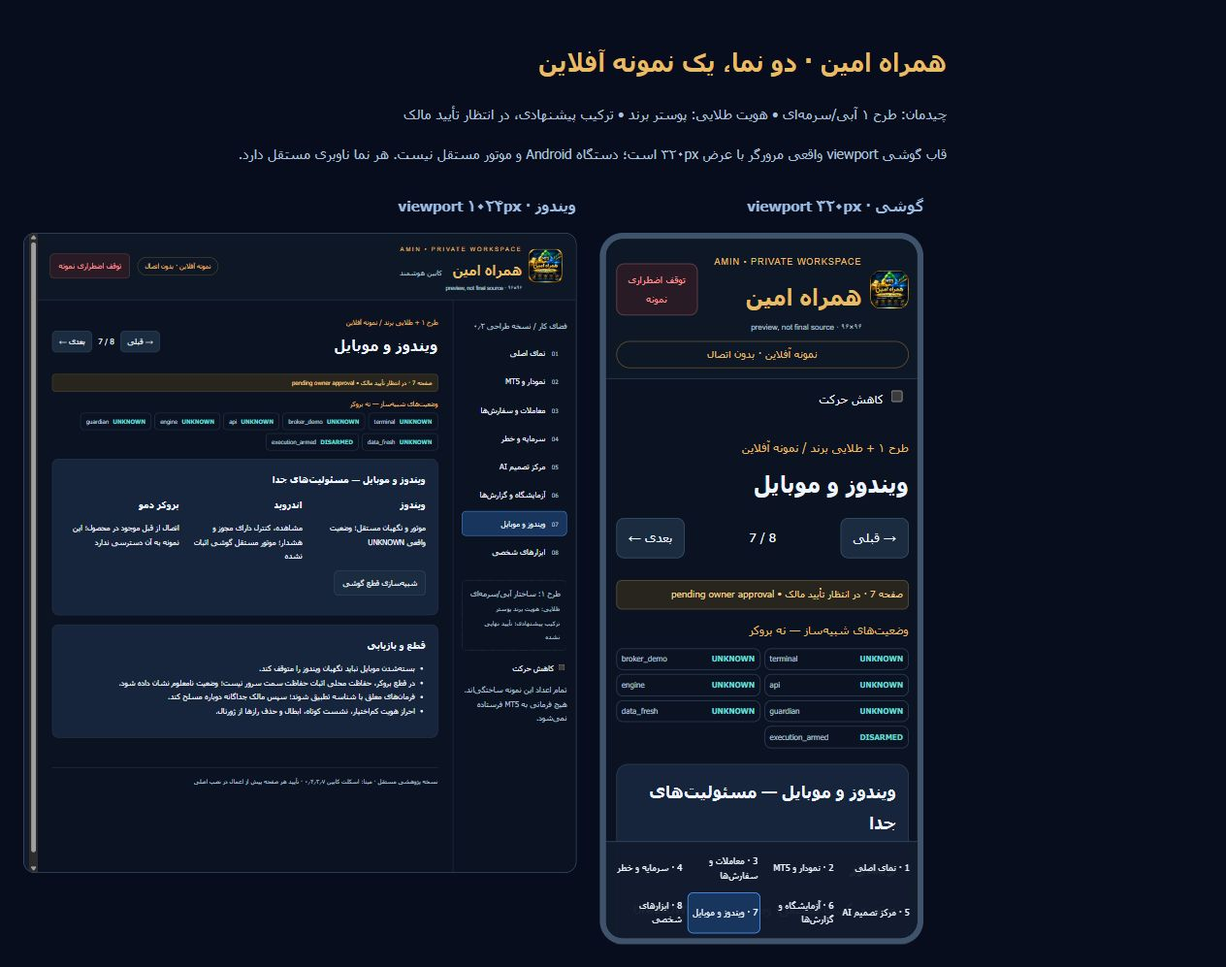
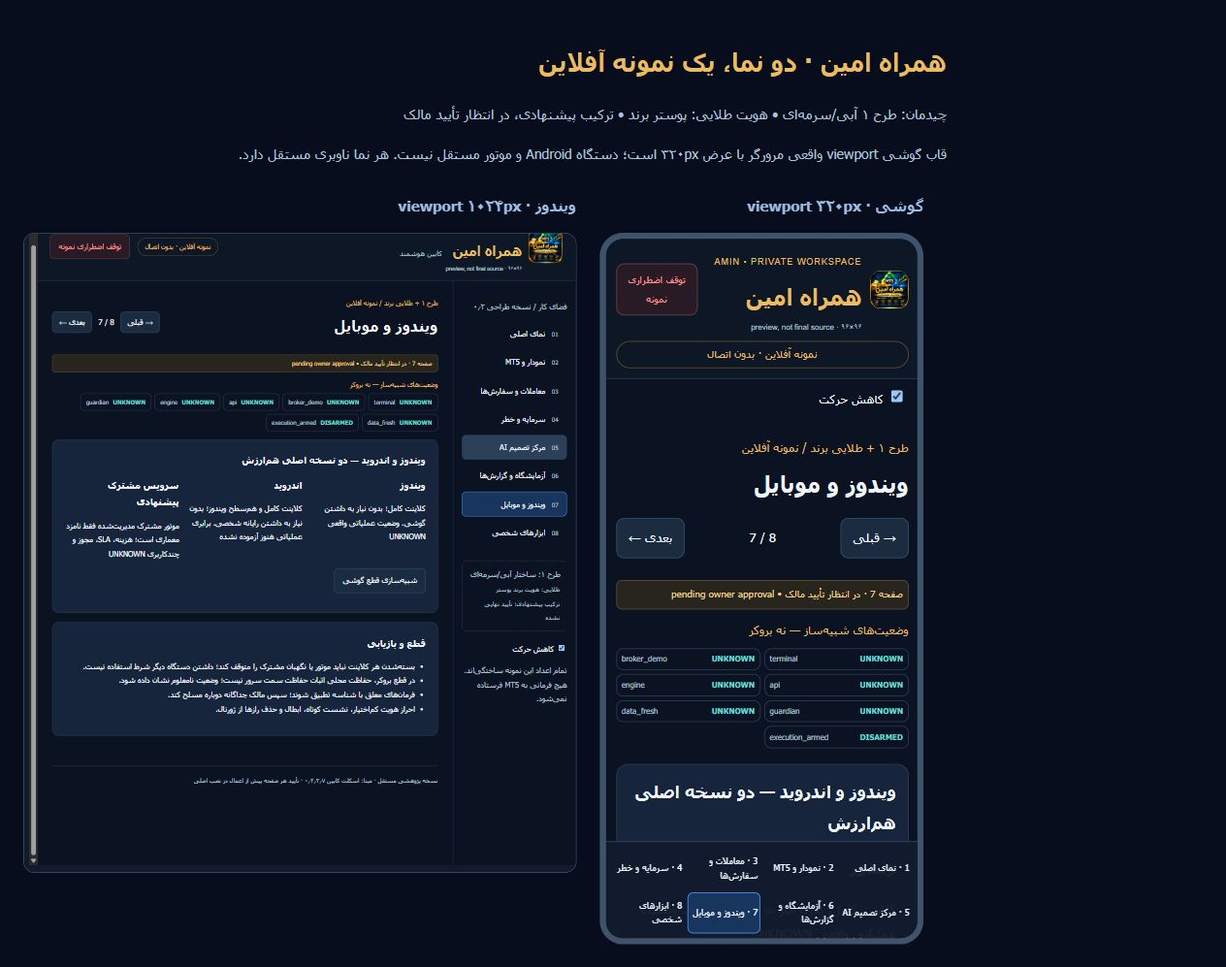
Define equal full Windows and Android clients; correct offline cabin contract

diff --git a/research/amin-cabin-v2-visual-revision/app.js b/research/amin-cabin-v2-visual-revision/app.js
@@ -10,7 +10,7 @@ function content(i){
  if(i===3)return card('نگهبان مستقل ریسک','<div class="warn">تعارض باز: هدف مالک ۳٪ در برابر پیشفرض release برابر ۶٪. هیچ تنظیم واقعی تغییر نکرده است.</div><p>سقف زیانِ مصوب، هویت حساب، هزینه و داده تازه باید پیش از بررسی فرمان معلوم باشند. UNKNOWN به معنی رد است.</p><button data-go="5">آزمون سناریوهای خطا</button>')+card('حسابگر آموزشی هزینه — اعداد فرضی','<p>حرکت فرضی ۱۰ دلار، قرارداد فرضی ۱۰۰ اونس، spread فرضی ۰٫۳۰ دلار و کمیسیون فرضی رفتوبرگشت ۸ دلار/lot؛ سوآپ و لغزش منظور نشدهاند. اینها نرخ بروکر نیستند.</p><div class="row"><label>حجم <select id="lots"><option value="1">۱ lot</option><option value="0.01">۰٫۰۱ lot</option></select></label><button id="calculate">محاسبه نمونه</button></div><div id="pnl"></div><p class="muted">سود تحققیافته نمونه همواره صفر است؛ هیچ fill یا معاملهای وجود ندارد.</p>');
  if(i===4)return `<div class="two">${card('مرکز تصمیم','<p class="big-note">NO TRADE</p><p>BUY / SELL تنها نام خروجی احتمالی طراحیاند. مدل آموختهشده معتبر به این نمونه وصل نیست.</p><table><tr><td>نوع منطق</td><td>قواعد ثابتِ محافظ نمونه</td></tr><tr><td>شناسه / هش مدل</td><td>UNKNOWN</td></tr><tr><td>عدم قطعیت</td><td>اندازهگیری نشده</td></tr><tr><td>احتمال برد</td><td>گزارش نشده</td></tr></table>')}${card('چرایی توقف','<p>داده تازه، هزینه نهایی، مجوز اجرایی و مدل معتبر لازم است. confidence بدون کالیبراسیون احتمال سود نیست.</p><p>آزمایشهای پژوهشی قبلی شاهد سودآوری نبودند؛ تقسیم مجدد داده دیدهشده آزمون مستقل تازه نیست.</p><button data-go="5">دیدن آزمایشگاه</button>')}</div>`+card('هشدارها','<ul><li>سطح بحرانی: حفاظت تأیید نشده.</li><li>هزینه نماد: UNKNOWN تا پاسخ قابل اعمال بروکر.</li><li>استراتژی و ۱۲ اندیکاتور: هویت نهایی هنوز حل نشده.</li></ul>');
  if(i===5)return card('آزمایشگاه حالتها — فقط حافظه این صفحه','<p>هر سناریو وضعیت ساختگی را تغییر میدهد. در همه حالتها تعداد سفارش ارسالی صفر است.</p><div class="row"><button data-event="disconnect">قطع ارتباط</button><button data-event="stale">داده کهنه</button><button data-event="unknown">حساب نامعلوم</button><button data-event="reconnect">بازگشت اتصال</button><button data-event="reconcile">تطبیق نمونه</button><button id="reset">بازنشانی نمونه</button></div><pre id="gate" class="code"></pre>')+card('شواهد و حدود آزمون','<p>آزمونهای واحد مستقل با Node و بدون نصب وابستگی اجرا میشوند. PASS آزمون mock، اثبات سلامت موتور نصبشده نیست.</p><p class="code">node --test tests/model.test.cjs</p><p>بازگشت اتصال → تطبیق → تأیید دوباره؛ هیچ صف فرمانی خودکار بازپخش نمیشود.</p>');
- if(i===6)return card('ویندوز و موبایل — مسئولیتهای جدا','<div class="grid"><div><h3>ویندوز</h3><p>موتور و نگهبان مستقل؛ وضعیت واقعی UNKNOWN</p></div><div><h3>اندروید</h3><p>مشاهده، کنترل دارای مجوز و هشدار؛ موتور مستقل گوشی اثبات نشده</p></div><div><h3>بروکر دمو</h3><p>اتصال از قبل موجود در محصول؛ این نمونه به آن دسترسی ندارد</p></div></div><button id="mobile">شبیهسازی قطع گوشی</button><p id="mobileState"></p>')+card('قطع و بازیابی','<ul><li>بستهشدن موبایل نباید نگهبان ویندوز را متوقف کند.</li><li>در قطع بروکر، حفاظت محلی اثبات حفاظت سمت سرور نیست؛ وضعیت نامعلوم نشان داده شود.</li><li>فرمانهای معلق با شناسه تطبیق شوند؛ سپس مالک جداگانه دوباره مسلح کند.</li><li>احراز هویت کماختیار، نشست کوتاه، ابطال و حذف رازها از ژورنال.</li></ul>');
+ if(i===6)return card('ویندوز و اندروید — دو نسخه اصلی همارزش','<div class="grid"><div><h3>ویندوز</h3><p>کلاینت کامل؛ بدون نیاز به داشتن گوشی. وضعیت عملیاتی واقعی UNKNOWN</p></div><div><h3>اندروید</h3><p>کلاینت کامل و همسطح ویندوز؛ بدون نیاز به داشتن رایانه شخصی. برابری عملیاتی هنوز آزموده نشده</p></div><div><h3>سرویس مشترک پیشنهادی</h3><p>موتور مشترک مدیریتشده فقط نامزد معماری است؛ هزینه، SLA، مجوز و چندکاربری UNKNOWN</p></div></div><button id="mobile">شبیهسازی قطع گوشی</button><p id="mobileState"></p>')+card('قطع و بازیابی','<ul><li>بستهشدن هر کلاینت نباید موتور یا نگهبان مشترک را متوقف کند؛ داشتن دستگاه دیگر شرط استفاده نیست.</li><li>در قطع بروکر، حفاظت محلی اثبات حفاظت سمت سرور نیست؛ وضعیت نامعلوم نشان داده شود.</li><li>فرمانهای معلق با شناسه تطبیق شوند؛ سپس مالک جداگانه دوباره مسلح کند.</li><li>احراز هویت کماختیار، نشست کوتاه، ابطال و حذف رازها از ژورنال.</li></ul>');
  return card('ابزارهای شخصی · اولویت بعدی','<div class="grid"><div><h3>برنامههای من</h3><p>بعداً: اجرای مستقیم اپ همان دستگاه و حفظ صفحه بازگشت</p><button disabled>+ افزودن — بعداً</button></div><div><h3>شخصیتها</h3><p>بعداً: موارد خصوصی و چند لینک؛ انتشار فقط موردی توسط مالک</p><button disabled>+ افزودن — بعداً</button></div><div><h3>ملودی امین</h3><p>چهار عنوان انتخاب شده؛ فایل و مجوز نسخه واقعی هنوز تأیید نشده</p><button disabled>پخش — فایل مجاز موجود نیست</button></div></div>')+card('تقویم، لوگو و حریم خصوصی','<p>تقویم اقتصادی زنده در این نمونه وجود ندارد. لوگوی مصوب گزینه۴ بازسازی نشده است. تصویر کوچک مصوب مالک فقط برای پیشنمایش در بسته است؛ فایل نهایی لوگو، موسیقی و داده حساب موجود نیست.</p><p>این ماژولها store و اختیار مستقل از فرمان معاملاتی دارند. + افزودن در طراحی نهایی بدون سقف دلخواه باقی میماند؛ ظرفیت واقعی دستگاه محدودیت است.</p>');
 }
 function notify(t){$('announcement').textContent=t;}
@@ -27,7 +27,7 @@ function render(action){
  document.querySelectorAll('[data-event]').forEach(b=>b.onclick=()=>{state=Cabin.transition(state,b.dataset.event);render(current);notify('سناریوی ساختگی اعمال شد؛ سفارش ارسالی: صفر');});
  if($('gate'))$('gate').textContent=JSON.stringify({scope:'MOCK_ONLY_NOT_BROKER',...Cabin.gate(state,10000)},null,2);
  if($('reset'))$('reset').onclick=()=>{state=Cabin.initial();sim=Cabin.simulator();lastId=null;render(current);notify('نمونه به وضعیت نامعلوم و غیرمسلح بازگشت');};
- if($('mobile'))$('mobile').onclick=()=>{state=Cabin.transition(state,'mobile_lost');$('mobileState').textContent='گوشی نمونه قطع شد؛ وضعیت مستقل موتور و محافظ تغییر نکرد. سلامت واقعی آنها همچنان نامعلوم است.';};
+ if($('mobile'))$('mobile').onclick=()=>{state=Cabin.transition(state,'mobile_lost');$('mobileState').textContent='قطع کلاینت گوشی شبیهسازی شد؛ موتور و نگهبان مشترک نمونه تغییر نکردند. این آزمون مرورگر اثبات برابری محصول Android/Windows نیست.';};
 }
 function modeInfo(){$('modeInfo').textContent={manual:'دستی: مالک پارامترها را تعیین و هر درخواست را تأیید میکند؛ محافظ مستقل حق رد دارد.',semi:'نیمهخودکار: پیشنهاد سیستم، تأیید انسانی همان پیشنهاد و محافظ مستقل؛ پیشنهاد منقضی قابل اجرا نیست.',auto:'خودکار: فقط سیاست مصوب و محدود، پس از مسلحسازی جدا؛ وضعیت فعلی غیرمسلح است.'}[state.mode];}
 function drawJournal(){if($('journal'))$('journal').textContent=sim.journal.length?JSON.stringify(sim.journal,null,2):'هنوز ارزیابی نمونهای ثبت نشده است.';}

diff --git a/research/amin-cabin-v2-visual-revision/model.js b/research/amin-cabin-v2-visual-revision/model.js
@@ -48,6 +48,7 @@ const Cabin = (() => {
    seen.set(id,result);journal.push({id,...result});return result;
   }};
  }
- return {pages,initial,fixture,gate,transition,navigate,swipe,pnl,simulator};
+ const parity=Object.freeze({windows:Object.freeze({requiresOtherPersonalDevice:false,capabilities:Object.freeze([...pages])}),android:Object.freeze({requiresOtherPersonalDevice:false,capabilities:Object.freeze([...pages])}),operationalEquivalenceVerified:false,managedEngine:'CANDIDATE_NOT_DEPLOYED'});
+ return {pages,initial,fixture,gate,transition,navigate,swipe,pnl,simulator,parity};
 })();
 if(typeof module!=='undefined')module.exports=Cabin;

diff --git a/research/amin-cabin-v2-visual-revision/PARITY_WINDOWS_ANDROID_FA.md b/research/amin-cabin-v2-visual-revision/PARITY_WINDOWS_ANDROID_FA.md
@@ -1,0 +1,39 @@
+# برابری Windows و Android — قرارداد اصلاحشده
+
+مبنای مقدم: Issue16 comment6655068199. دو محصول اصلی همارزشاند؛ هیچ مشتری برای استفاده از یکی ملزم به مالکیت دستگاه دیگر نیست. نسخه گوشی نمایشگر محدود نیست. برابری قرارداد/ظاهر با برابری عملیاتی اثباتشده فرق دارد.
+
+| صفحه | ویندوز | اندروید | مشترک در موتور | شواهد تست | شکاف واقعی |
+|---|---|---|---|---|---|
+|۱ نمای اصلی|سرمایه، تصمیم، نمودار، وضعیت|همان قابلیتها با چیدمان لمس|snapshot نسخهدار و زماندار|هر دو قاب هشت صفحه و UNKNOWN؛ داده ساختگی|تازگی/latency عملیاتی هیچکدام سنجیده نشده|
+|۲ نمودار|host بومی MT5 پس از مجوز؛ چارت تحلیلی|چارت بومی/وب کنترلپذیر معادل؛ نه اجرای باینری MT5 ویندوز|فید و تصمیم یکسان، قیمت/زمان یکسان|نمودار مصنوعی؛ host واقعاً فعال نیست|Android chart adapter و Windows host integration آزموده نشده|
+|۳ سفارش|دستی/نیمهخودکار/خودکار با اختیار|همان سه حالت و مدیریت پوزیشن/سفارش|authorizer، risk veto، command id، ledger|قاب گوشی همان controls؛ mock رد/duplicate دارد|موتور عملیاتی مشترک و احراز هویت تولیدی هیچکدام وصل نیست|
+|۴ ریسک|سقف، توقف، سود شناور/تحققیافته|همان اختیارات و محاسبات|نگهبان مستقل، policy hash، ۳٪/۶٪ حلنشده|حسابگر فرضی، unknown veto|spec/cost واقعی و policy مصوب کم است|
+|۵ AI|مدل، هش، دلایل، عدم قطعیت|همان مدل/نتایج/دلایل|یک نسخه artifact و audit|NO TRADE و UNKNOWN|edge، model معتبر و readiness اثبات نشده|
+|۶ گزارش|ژورنال، خطا، reconciliation|همان گزارش و امکان بررسی|journal معتبر، sequence، idempotency|تست محلی قطع/reconnect بدون rearm؛ resilience قبلی|durability UI و sync عملیاتی دو OS آزموده نشده|
+|۷ اتصال|مستقل از گوشی شخصی|مستقل از Windows شخصی|host مدیریتشده نامزد، کنترل واحد|قطع موبایل در mock اثر بر موتور ندارد|SLA، tenant isolation، failover و هزینه نامعلوم|
+|۸ ابزارها|برنامهها، شخصیتها، ملودی، مجوز مالک|همان هدف؛ اجرای اپ با API همان OS|تنظیمات مجاز؛ مستقل از معامله|placeholder غیرفعال در هر دو|فایل/حقوق موسیقی، launcher دو OS، فایل اصلی لوگو کم است|
+
+## نامزد معماری، نه تصمیم نصب
+
+دو کلاینت کامل Windows و Android → API احراز هویت و فرمان مشترک → یک نگهبان و منبع حقیقت/دفتر → adapter مجاز بروکر. در صورت نیاز MT5، Windows میتواند در سمت سرویس باشد، نه الزام رایانه مشتری. هیچ VPS خریداری/ایجاد یا سرویس مستقر نشده است.
+
+بازاستفاده: Windows C# و Android Java در snapshot ed4591a؛ از صفر بازنویسی نشوند. قرارداد typed/versioned برای snapshot و command. idempotency key از scope tenant/account + command_id، hash payload، policy/model version و expiry تشکیل شود؛ تکرار با payload متفاوت رد، نتیجه نامعلوم رزرو شود. exactly-once بروکر ادعا نمیشود. هویت دستگاه با هویت سفارش یکی نیست؛ دو کلاینت نباید یک عمل را دوبار اجرا کنند. قراردادهای pure و durable/fenced در mt5-review PR3 (72b51c4) مرجعاند؛ gateway تکراری اینجا ساخته نشده.
+
+احراز هویت: token کوتاه، مجوز سمت سرور، ابطال نشست، ذخیره امن Credential Manager/Keystore؛ راز بروکر روی کلاینت نگهداری نشود. tenant/account isolation و quota باید آزموده شوند؛ checksum احراز اصالت نیست. TLS، امضای artifact، policy epoch، audit بدون راز و backup/restore لازماند؛ هنوز در mock پیاده نشدهاند.
+
+## رفع مانع، هزینه و آزمون پیش از مجوز عملیاتی
+
+| مانع | فناوری/کار پیشنهادی | هزینه و وابستگی | آزمون آفلاین بعدی و معیار |
+|---|---|---|---|
+|نمایش معادل چارت|Windows host موجود + Android chart component با قرارداد quote واحد|مجوز کتابخانه/داده و نفرساعت UNKNOWN؛ انتخاب با مالک|trace مصنوعی یکسان؛ OHLC/time/side برابر؛ stale هشدار هر دو|
+|مشتری تنها-گوشی و تنها-ویندوز|سرویس مشترک مدیریتشده، adapter جدا و یک دفتر|Windows hosting/licence، broker automation terms، multiuser licence، SLA، backup، bandwidth همگی استعلام لازم|دو client actor مستقل؛ قطع/خروج یکی نباید state موتور را خاموش کند|
+|فرمان همزمان و گمشدن پاسخ|reuse durable journal/fenced authority|طراحی identity و storage recovery؛ بدون هزینه واقعی فعلی|duplicate از هر دو دستگاه فقط یک logical attempt؛ UNKNOWN بدون resend و reconciliation|
+|کیفیت عملکرد|timestamp server/receive/render/ack، clock skew، health هر جزء|بودجه latency/freshness/SLA هنوز تصویب نشده|report p50/p95/p99 و max، drop/reorder/delay/reconnect؛ سقف عددی قبل سنجش قفل شود؛ نبود عدد=قبولی نامعلوم|
+|Android background و Windows exit|service-side guardian، اعلان push و fallback درونبرنامهای|مجوز push، محدودیت Android و شبکه/حریم خصوصی|app killed، screen locked، اینترنت قطع؛ هشدار delivery/ack تفکیک و retry غیرمعاملاتی|
+|امنیت و چندکاربری|auth scopes، tenant boundary، replay/expiry/epoch|ممیزی و مدل تجاری/مجوز broker UNKNOWN|cross-tenant denial، revoked token، replay، restore؛ هیچ نمونه حساب واقعی وارد نشود|
+
+خرید، نصب کلاینت، VPS، قرارداد سرویس/کتابخانه، حساب، معامله و تغییر main مجوز جدا میخواهد. طراحی/fixture غیرمعاملاتی در مجوز فعلی است. هزینه واقعی صفر خرجشده؛ قیمت ماهانه یا SLA حدس زده نشده. ضعف Windows و Android با اولویت برابر بررسی میشود.
+
+## وضعیت اثبات
+
+سه تست تازه فقط برابری فهرست قرارداد هشت صفحه، عدم الزام دستگاه دیگر و عدم ادعای readiness را کنترل میکنند. مرورگر گوشی Android واقعی نیست. اجرای same UI در دو عرض، اثبات background service، اعلان OS، latency شبکه، چندکاربری یا حفاظت بروکر نیست. همه موارد اخیر NOT_TESTED / UNKNOWN باقیاند.

diff --git a/research/amin-cabin-v2-visual-revision/VISUAL_REVISION_FA.md b/research/amin-cabin-v2-visual-revision/VISUAL_REVISION_FA.md
@@ -20,3 +20,5 @@
 قالب واقعی عکسهای نهایی JPEG است (FFD8)، پسوند .jpg و SHA256 در manifest ثبت شده؛ نام .png موقت ابزار اصلاح شده است. داده حساب یا اطلاعات شخصی در تصاویر نیست.
 
 حفظ محدودیتها: بدون main/merge، نصب، SDK، حساب، دریافت تاریخچه، معامله یا تغییر ربات. این خروجی اصلاح mock است، نه تأیید محصول یا سودآوری. محدودیت شبیهساز: ژورنال در حافظه و dedupe فقط بر شناسه؛ دوام restart و تطبیق payload هنوز پیادهسازی تولیدی نیست.
+
+اصلاح بعدی 6655068199: صفحه۷ اکنون دو کلاینت کامل همارزش و بینیاز از داشتن دستگاه شخصی دیگر را بیان میکند؛ معماری نامزد مدیریتشده و شکافهای عملیاتی در PARITY_WINDOWS_ANDROID_FA.md ثبتاند. عبارت قدیمی نقش محدود گوشی ملغی است.

diff --git a/research/amin-cabin-v2-visual-revision/README.md b/research/amin-cabin-v2-visual-revision/README.md
@@ -10,3 +10,5 @@
 مرجع قبل: PR18، commit 86505043168b08a04843603c96f836f8e9f0d77e. مرجع طراحی: PR17، commit 99f7f7dd9985afa53f04fb750870087fe771eb58.
 
 فقط پیشنمایش کوچک لوگوی مصوب در بسته است؛ تصویر اصلی نهایی موجود نیست. فونت Tahoma محلی استفاده شده تا CDN فونت مرجع درخواست نشود. لوگو بدون تغییر با Git blob SHA مرجع تطبیق داده شد.
+
+[قرارداد مقدم برابری Windows/Android](PARITY_WINDOWS_ANDROID_FA.md) جایگزین تعبیر قدیمی محدودکردن موبایل است.

diff --git a/research/amin-cabin-v2-visual-revision/VALIDATION.md b/research/amin-cabin-v2-visual-revision/VALIDATION.md
@@ -14,3 +14,5 @@
 - MT5/broker/trade/real data: اجرا نشده و خارج دامنه.
 
 آزمونهای pure موفق، اثبات محافظ واقعی یا موتور نصبشده نیستند.
+
+اصلاح 6655068199: مجموع آزمونهای pure اکنون ۵۰ PASS و صفر FAIL؛ سه تست قرارداد برابری افزوده شد. این تستها برابری عملیاتی واقعی دو OS را ثابت نمیکنند.
